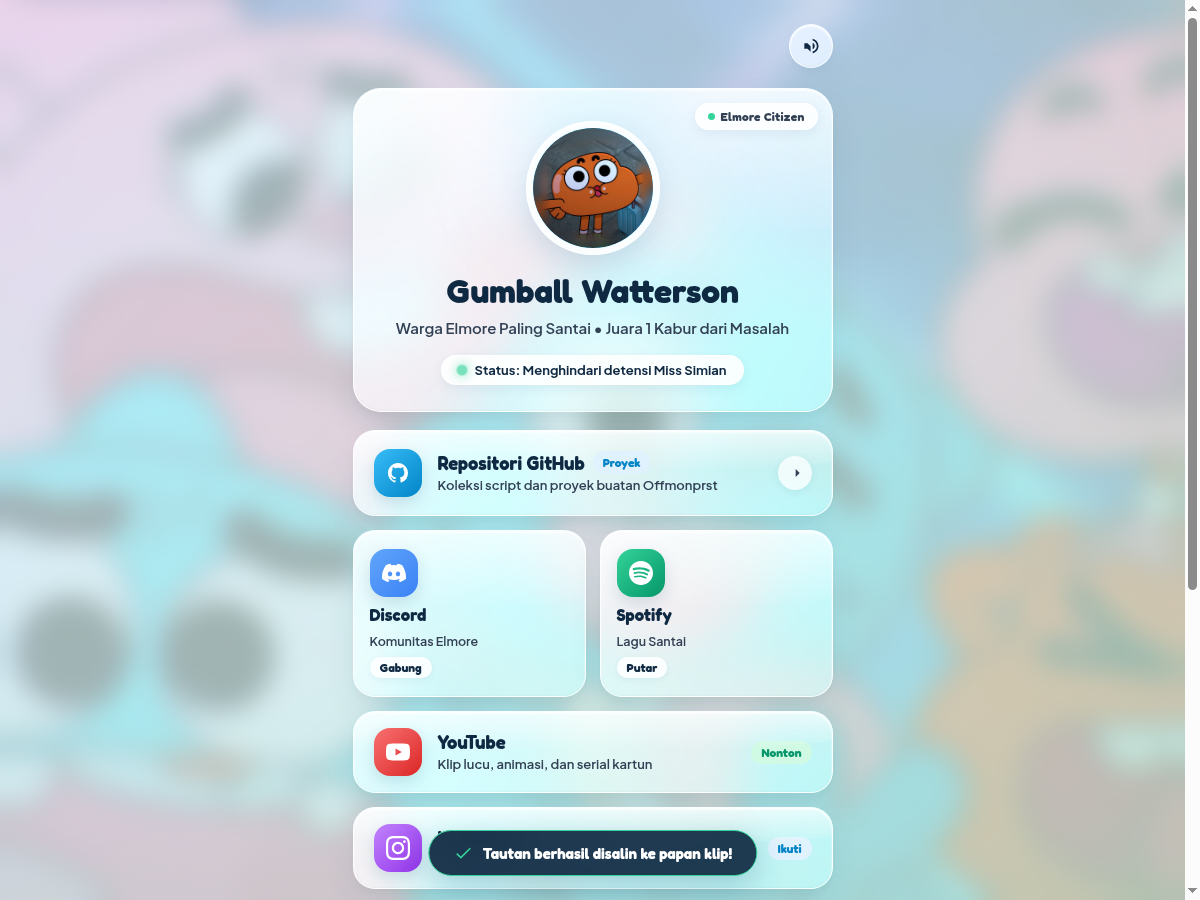
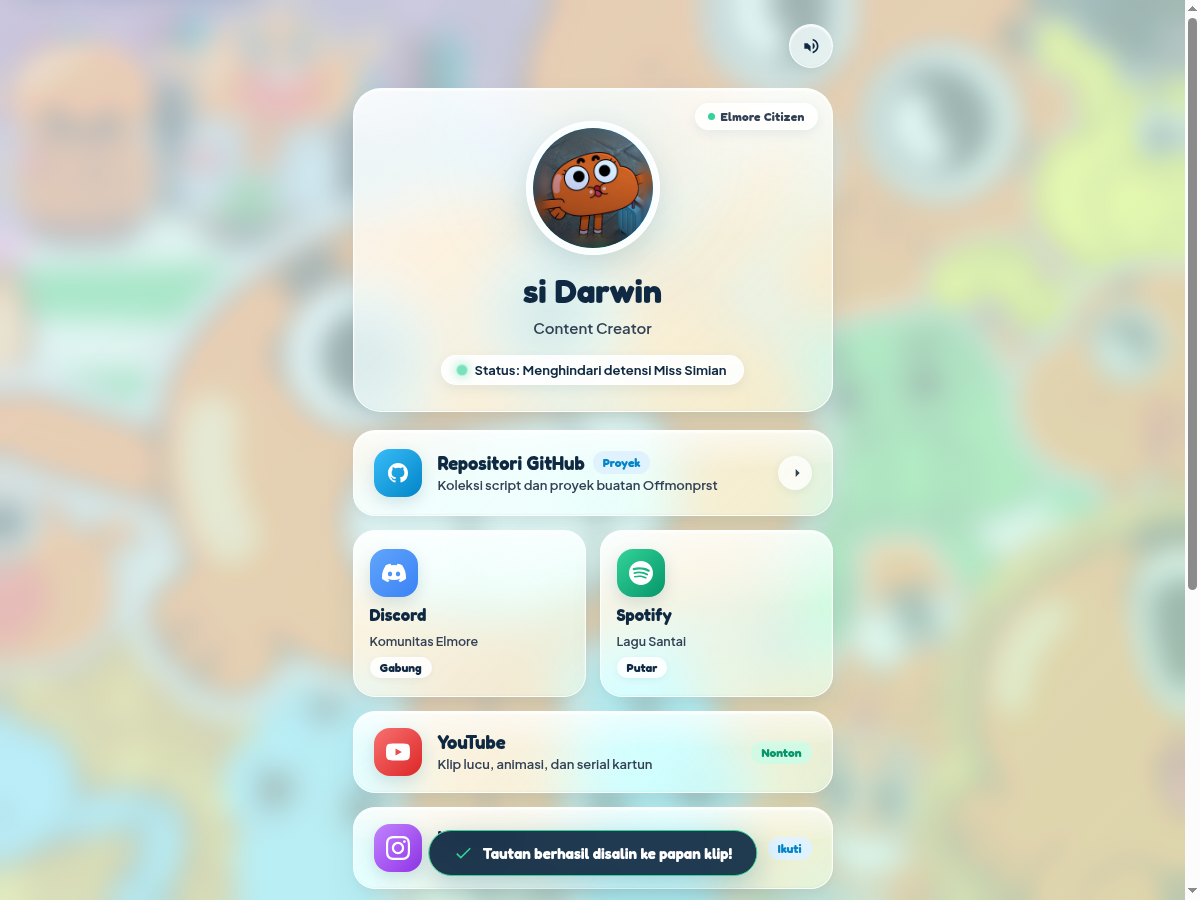
feat: update name to si Darwin, bio to Content Creator, and set compressed desktop wallpaper

diff --git a/index.html b/index.html
@@ -3,7 +3,7 @@
 <head>
   <meta charset="UTF-8">
   <meta name="viewport" content="width=device-width, initial-scale=1.0">
-  <title>Elmore Bio Link: The Amazing World of Gumball</title>
+  <title>si Darwin: Elmore Bio Link</title>
   <meta name="description" content="Website bio link interaktif bertema kartun The Amazing World of Gumball dengan estetika Serene Liquid Glass dan palet pastel hijau-biru.">
   <link rel="preconnect" href="https://fonts.googleapis.com">
   <link rel="preconnect" href="https://fonts.gstatic.com" crossorigin>
@@ -47,8 +47,8 @@
       </div>
 
       <!-- Identity -->
-      <h1 class="liquid-profile-name" id="character-name-title">Gumball Watterson</h1>
-      <p class="liquid-profile-bio" id="character-subtitle">Warga Elmore Paling Santai • Juara 1 Kabur dari Masalah</p>
+      <h1 class="liquid-profile-name" id="character-name-title">si Darwin</h1>
+      <p class="liquid-profile-bio" id="character-subtitle">Content Creator</p>
 
       <!-- Glass Status Capsule -->
       <div class="glass-status-capsule" role="status">

diff --git a/DESIGN.md b/DESIGN.md
@@ -1,9 +1,15 @@
-# DESIGN.md: Gumball Bio Link (Serene Liquid Glass Edition)
+# DESIGN.md: si Darwin Bio Link (Serene Liquid Glass Edition)
 
 ## Direction & Visual Language
+- **Profile Identity**: si Darwin (Content Creator)
 - **Prompt Reference**: Mobile app UI, liquid glass aesthetic with frosted glass panels, soft lighting, pastel color palette featuring greens and blues, layered composition with depth and transparency, serene and modern mood, smooth rendering technique.
 - **Negative Filters Applied**: No low contrast, no harsh shadows, no cluttered layout, no dark color scheme, no pixelation, no sharp edges, no visible grid lines, no excessive text.
 - **Dial**: ENERGY 2 / RHYTHM 2 / MOTION 2
+
+## Wallpaper Configuration
+- **Desktop**: `assets/bg-desktop.jpg` (Darwin Sticker Collage, compressed from 3.0 MB to 378 KB, 1920x960 progressive JPEG)
+- **Mobile**: `assets/bg-mobile.jpg` (Vertical portrait 1080x1920 for mobile devices <= 768px)
+- **Backdrop Scrim**: Luminous pastel blur veil to guarantee contrast and soft serene lighting across the vibrant wallpaper.
 
 ## Palette & Lighting
 - **Pastel Glass Surface**: `linear-gradient(135deg, rgba(255, 255, 255, 0.72) 0%, rgba(240, 253, 250, 0.52) 100%)`
